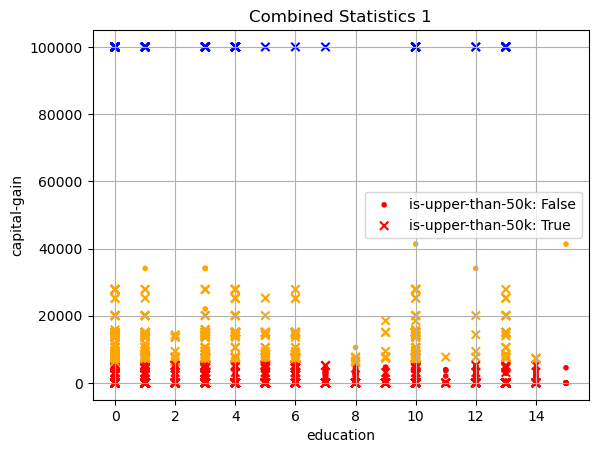
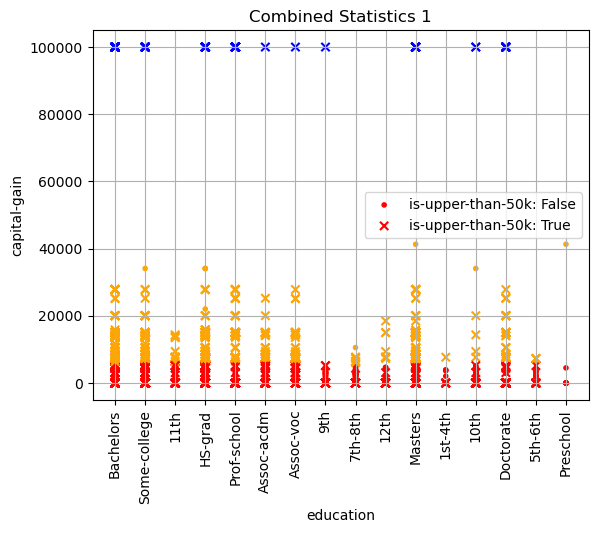
[CORE] 3d graph with 3 clusters

diff --git a/data/process_initial_file.py b/data/process_initial_file.py
@@ -1,38 +1,38 @@
 import csv
 
-if __name__ == "__main__":
-
-    list_workclass = ['Private', 'Self-emp-not-inc', 'Self-emp-inc', 'Federal-gov', 'Local-gov', 'State-gov',
+list_workclass = ['Private', 'Self-emp-not-inc', 'Self-emp-inc', 'Federal-gov', 'Local-gov', 'State-gov',
                       'Without-pay', 'Never-worked']
-    list_education = ['Bachelors', 'Some-college', '11th', 'HS-grad', 'Prof-school', 'Assoc-acdm', 'Assoc-voc', '9th',
-                      '7th-8th', '12th', 'Masters', '1st-4th', '10th', 'Doctorate', '5th-6th', 'Preschool']
-    list_marital_status = ['Married-civ-spouse', 'Divorced', 'Never-married', 'Separated', 'Widowed',
-                           'Married-spouse-absent', 'Married-AF-spouse']
-    list_occupation = ['Tech-support', 'Craft-repair', 'Other-service', 'Sales', 'Exec-managerial', 'Prof-specialty',
-                       'Handlers-cleaners', 'Machine-op-inspct', 'Adm-clerical', 'Farming-fishing', 'Transport-moving',
-                       'Priv-house-serv', 'Protective-serv', 'Armed-Forces']
-    list_relationship = ['Wife', 'Own-child', 'Husband', 'Not-in-family', 'Other-relative', 'Unmarried']
-    list_race = ['White', 'Asian-Pac-Islander', 'Amer-Indian-Eskimo', 'Other', 'Black']
-    list_sex = ['Female', 'Male']
-    list_native_country = ['United-States', 'Cambodia', 'England', 'Puerto-Rico', 'Canada', 'Germany',
-                           'Outlying-US(Guam-USVI-etc)', 'India', 'Japan', 'Greece', 'South', 'China', 'Cuba', 'Iran',
-                           'Honduras', 'Philippines', 'Italy', 'Poland', 'Jamaica', 'Vietnam', 'Mexico', 'Portugal',
-                           'Ireland', 'France', 'Dominican-Republic', 'Laos', 'Ecuador', 'Taiwan', 'Haiti', 'Columbia',
-                           'Hungary', 'Guatemala', 'Nicaragua', 'Scotland', 'Thailand', 'Yugoslavia', 'El-Salvador',
-                           'Trinadad&Tobago', 'Peru', 'Hong', 'Holand-Netherlands']
+list_education = ['Bachelors', 'Some-college', '11th', 'HS-grad', 'Prof-school', 'Assoc-acdm', 'Assoc-voc', '9th',
+                  '7th-8th', '12th', 'Masters', '1st-4th', '10th', 'Doctorate', '5th-6th', 'Preschool']
+list_marital_status = ['Married-civ-spouse', 'Divorced', 'Never-married', 'Separated', 'Widowed',
+                       'Married-spouse-absent', 'Married-AF-spouse']
+list_occupation = ['Tech-support', 'Craft-repair', 'Other-service', 'Sales', 'Exec-managerial', 'Prof-specialty',
+                   'Handlers-cleaners', 'Machine-op-inspct', 'Adm-clerical', 'Farming-fishing', 'Transport-moving',
+                   'Priv-house-serv', 'Protective-serv', 'Armed-Forces']
+list_relationship = ['Wife', 'Own-child', 'Husband', 'Not-in-family', 'Other-relative', 'Unmarried']
+list_race = ['White', 'Asian-Pac-Islander', 'Amer-Indian-Eskimo', 'Other', 'Black']
+list_sex = ['Female', 'Male']
+list_native_country = ['United-States', 'Cambodia', 'England', 'Puerto-Rico', 'Canada', 'Germany',
+                       'Outlying-US(Guam-USVI-etc)', 'India', 'Japan', 'Greece', 'South', 'China', 'Cuba', 'Iran',
+                       'Honduras', 'Philippines', 'Italy', 'Poland', 'Jamaica', 'Vietnam', 'Mexico', 'Portugal',
+                       'Ireland', 'France', 'Dominican-Republic', 'Laos', 'Ecuador', 'Taiwan', 'Haiti', 'Columbia',
+                       'Hungary', 'Guatemala', 'Nicaragua', 'Scotland', 'Thailand', 'Yugoslavia', 'El-Salvador',
+                       'Trinadad&Tobago', 'Peru', 'Hong', 'Holand-Netherlands']
 
-    dict_workclass = dict(zip(list_workclass, range(0, len(list_workclass))))
-    dict_education = dict(zip(list_education, range(0, len(list_education))))
-    dict_marital_status = dict(zip(list_marital_status, range(0, len(list_marital_status))))
-    dict_occupation = dict(zip(list_occupation, range(0, len(list_occupation))))
-    dict_relationship = dict(zip(list_relationship, range(0, len(list_relationship))))
-    dict_race = dict(zip(list_race, range(0, len(list_race))))
-    dict_sex = dict(zip(list_sex, range(0, len(list_sex))))
-    dict_native_country = dict(zip(list_native_country, range(0, len(list_native_country))))
-    dict_is_earning_more_than_50 = {
-        "<=50K": 0,
-        ">50K": 1
-    }
+dict_workclass = dict(zip(list_workclass, range(0, len(list_workclass))))
+dict_education = dict(zip(list_education, range(0, len(list_education))))
+dict_marital_status = dict(zip(list_marital_status, range(0, len(list_marital_status))))
+dict_occupation = dict(zip(list_occupation, range(0, len(list_occupation))))
+dict_relationship = dict(zip(list_relationship, range(0, len(list_relationship))))
+dict_race = dict(zip(list_race, range(0, len(list_race))))
+dict_sex = dict(zip(list_sex, range(0, len(list_sex))))
+dict_native_country = dict(zip(list_native_country, range(0, len(list_native_country))))
+dict_is_earning_more_than_50 = {
+    "<=50K": 0,
+    ">50K": 1
+}
+
+if __name__ == "__main__":
 
     data_without_string = []
     with open("adult.data", 'r', newline='') as csvfile:

diff --git a/main.py b/main.py
@@ -8,6 +8,8 @@ from pyspark.ml.feature import VectorAssembler
 from pyspark.sql import SparkSession
 from pyspark.sql.types import StructType, StructField, IntegerType
 
+from data.process_initial_file import dict_education, list_education, list_race
+
 
 def elbow_method_evaluation(df):
     # Calculate cost and plot
@@ -73,9 +75,9 @@ df.select("*").show()
 # Create features column, assembling together the numeric data
 col1_name = 'education'
 col2_name = 'capital-gain'
-col3_name = 'hours-per-week'
 col3_name = 'race'
-inputCols = [col1_name, col2_name]
+col4_name = 'hours-per-week'
+inputCols = [col1_name, col2_name, col3_name]
 vecAssembler = VectorAssembler(
     inputCols=inputCols,
     outputCol="features")
@@ -85,6 +87,7 @@ adults_with_features = vecAssembler.transform(df)
 # Do K-means
 # Evaluate number of clusters with the elbow method
 elbow_method_evaluation(adults_with_features)
+
 k = 3
 kmeans_algo = KMeans().setK(k).setSeed(1).setFeaturesCol("features")
 model = kmeans_algo.fit(adults_with_features)
@@ -127,6 +130,8 @@ plt.grid()
 plt.title("Combined Statistics 1")
 plt.xlabel(col1_name)
 plt.ylabel(col2_name)
+# TODO To change in case col1_name is changed
+plt.xticks(range(0, len(list_education)), list_education, rotation='vertical')
 plt.legend(['is-upper-than-50k: False', 'is-upper-than-50k: True'])
 
 # Save figure
@@ -155,6 +160,7 @@ plt.grid()
 plt.title("Combined Statistics 2")
 plt.xlabel(col1_name)
 plt.ylabel(col2_name)
+plt.xticks(range(0, len(list_education)), list_education, rotation='vertical')
 plt.legend(['is-upper-than-50k: False', 'is-upper-than-50k: True'])
 
 # Save figure
@@ -214,12 +220,73 @@ plt.grid()
 plt.title("Combined Statistics 3")
 plt.xlabel(col3_name)
 plt.ylabel(col2_name)
+plt.xticks(range(0, len(list_race)), list_race, rotation='vertical')
 plt.legend(['is-upper-than-50k: False', 'is-upper-than-50k: True'])
 
 # Save figure
 plt.savefig("picture3.png", bbox_inches='tight')
 
 # Show fig
+plt.show()
+
+# TODO PUT HERE
+
+# Figure 4
+inputCols = [col1_name, col3_name, col4_name]
+vecAssembler = VectorAssembler(
+    inputCols=inputCols,
+    outputCol="features")
+adults_with_features = vecAssembler.transform(df)
+
+elbow_method_evaluation(adults_with_features)
+
+# Do K-means
+k = 3
+kmeans_algo = KMeans().setK(k).setSeed(1).setFeaturesCol("features")
+model = kmeans_algo.fit(adults_with_features)
+centers = model.clusterCenters()
+
+# Assign clusters to flowers
+# Cluster prediction, named prediction and used after for color
+adults_with_clusters = model.transform(adults_with_features)
+
+# Display Centers
+print("Centers: '{}'".format(centers))
+
+# Convert Spark Data Frame to Pandas Data Frame
+adults_for_viz = adults_with_clusters.toPandas()
+print("STARTING PRINTING ADULTS_for")
+print("adults_for_viz.prediction.value_counts(): '{}'".format(adults_for_viz.prediction.value_counts()))
+
+# Vizualize
+A = adults_for_viz[adults_for_viz["is-upper-than-50k"] == 0]
+B = adults_for_viz[adults_for_viz["is-upper-than-50k"] == 1]
+
+# Colors code k-means results, cluster numbers
+colors = {0: 'red', 1: 'blue', 2: 'orange'}
+
+# Draw dots
+fig_3d = plt.figure()
+ax = plt.axes(projection='3d')
+
+ax.set_xlabel(col1_name)
+ax.set_ylabel(col3_name)
+ax.set_zlabel(col4_name)
+ax.set_xticks(range(0, len(list_education)))
+ax.set_xticklabels(list_education, rotation=90,
+                   verticalalignment='baseline',
+                   horizontalalignment='left')
+ax.set_yticks(range(0, len(list_race)))
+ax.set_yticklabels(list_race, rotation=-15,
+                   verticalalignment='baseline',
+                   horizontalalignment='left')
+# Data for three-dimensional scattered points
+ax.scatter3D(A[col1_name], A[col3_name], A[col4_name], c=A.prediction.map(colors), cmap='Greens', marker='.')
+ax.scatter3D(B[col1_name], B[col3_name], B[col4_name], c=B.prediction.map(colors), cmap='Greens', marker='x')
+
+# Save figure
+plt.savefig("picture4.png", bbox_inches='tight')
+
 plt.show()
 
 # DEBUG: Display stats
